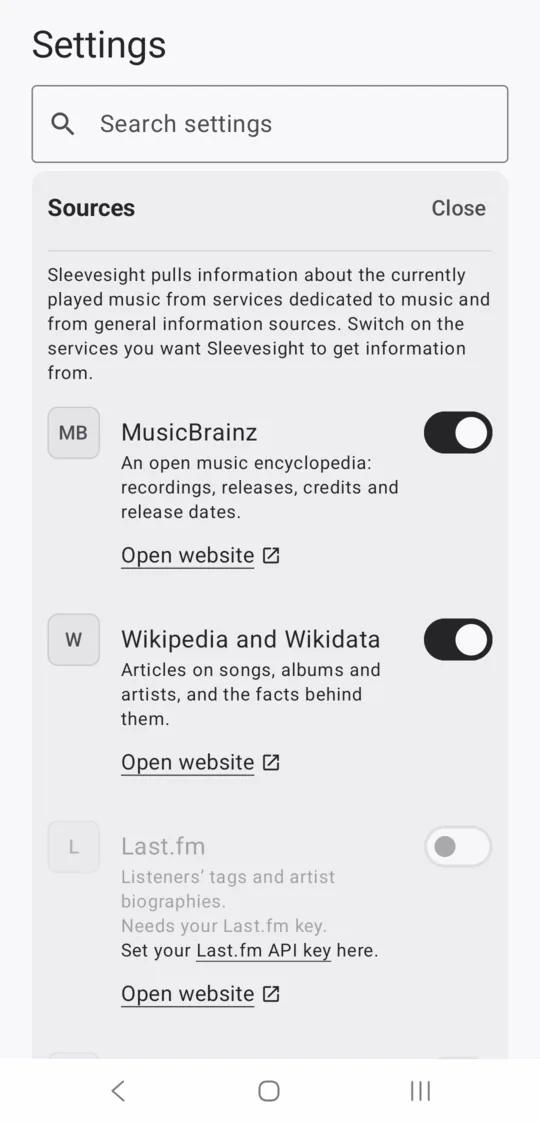
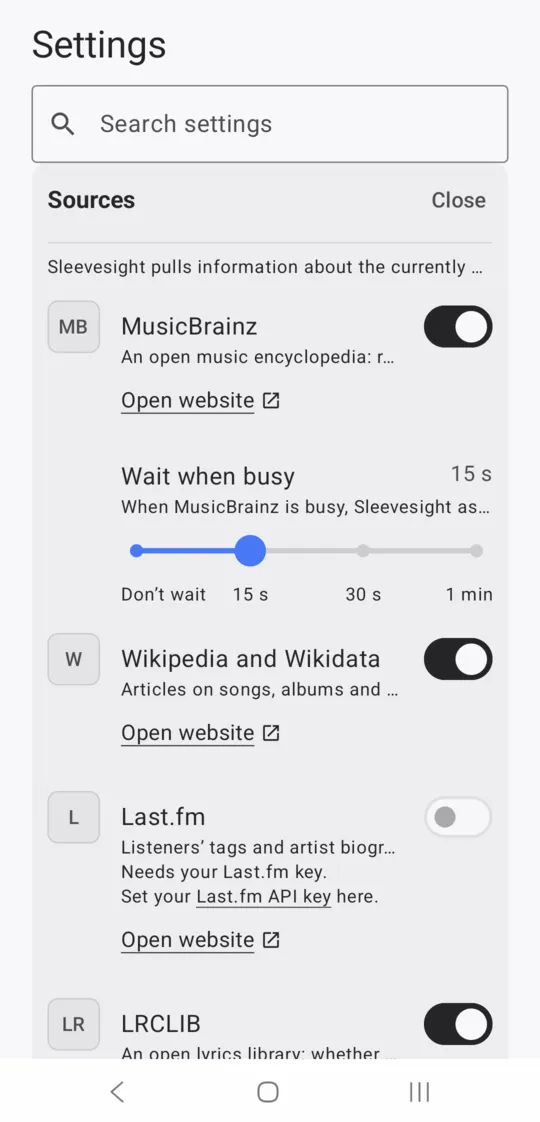
[DOCS] Screenshots: the app as it is in 0.6.6 (#1259)
* [DOCS] Screenshots: the app as it is in 0.6.6

The docs' captures, taken on the phone from 0.6.6, as the docs catch-up to
0.6.6 marked them. Retaken: `first-run-top`, `first-run-access-off`,
`first-run-access-on`, the settings captures at their defaults with the
descriptions folded, `key-insights`, `sources-unfolded`, `sources-page`,
`as-written-previously` and `home-playing`. New, in place of the markers:
`cover-tracklist`, `lyrics-explained`, `genres-weak-instrumental`,
`genre-why-answer`, `insight-dimmed`, `artist-insight`, `sources-legend`,
`insight-resumed` and `settings-appearance-layout`.

`genre-no-definition` is dropped: every genre in the vocabulary now has a
definition, so its 0.1.15 capture (Acoustic without one) is out of date and
cannot be retaken. The vocals check's capture is not taken: the check runs
only for an Instrumental weak by a sign of vocals, which needs a MusicBrainz
data error to show. `_data/screenshots.yml` gives each its caption, alt
text and version, as picked in a simulation.

* [DOCS] Screenshots: review fixes

`genre-why-answer` gets its own row under *What the genre is, and why this
track has it.*, the text it shows, instead of sitting beside the AI's genre
under *A genre only MusicBrainz gives*. Its alt text counts three sentences,
as the capture has, and `settings-ai-services-no-key`'s quotes *Needs your
OpenAI key* and *Needs your Google key* as the screen does. The two
[…]

diff --git a/docs/tutorials/usage/index.md b/docs/tutorials/usage/index.md
@@ -89,7 +89,8 @@ From top to bottom, the screen shows:
 
 - **The player and its state**, such as "Spotify · Playing", or *Paused*, *Stopped*, *Buffering*. A tap opens the player's own screen, or, for a player that names none (as Spotify), the app as its launcher icon opens it; a player that has neither says so.
 - **The cover**, with the playback position under it when the player reports the track's length. Without a cover, a music note stands in. A tap turns the cover over, like a sleeve, to show the album's tracklist on its back, from MusicBrainz: each track's position, title and length, the playing song marked, in the app's own colours; an album of several discs has a page per disc, swiped sideways, with a dot per disc under it. A tap on the back turns it back. The tracklist is looked up on the first turn, not before. With none, the back says why: MusicBrainz is still being asked, is disabled, could not be reached (with *Retry*), *MusicBrainz has no tracklist for this album.*, or *MusicBrainz reports several albums of this name for this artist. Sleevesight could not decide which one this is.* A screen reader reads the cover as *Album art*, "Double-tap to show tracklist", and a track as "3, Blue in Green, 5 minutes 37 seconds, playing".
-  <!-- screenshot (0.6.6) still to take: the cover turned over to the tracklist, the playing song marked; ideally an album of two discs, with its disc heading and dots -->
+
+  {% include screenshots.html ids="cover-tracklist" %}
 - **The title**, large and bold, cleaned of what the player appends: a tag such as "2006 Remaster" is set aside, and featured artists ("feat. Van Morrison") join the artists. When the title names the work it is from or a variant ("From …", "acoustic"), that shows under it.
 - **The artists**, each credited one, featured artists included.
 - **The album**, in italics, followed by the year of that release, the one being played, when it is known: *Rubber Soul*, 1965. The year comes from MusicBrainz, from the release of the name the player gives, or that name without an edition in brackets such as "(Remastered)" or "(Deluxe Edition)" (never without "(Live)" or "(Original Motion Picture Soundtrack)", which name another album); "Vol. 2" and "Volume 2" count as the same name. When several releases go by that name in different years, the year the player sends picks one; without it, or when it is none of theirs, the year of the release the track first came out on, when that is one of them (*Thriller*, 1982, and not a reissue's year), and otherwise no year shows. With no release of that name, the year is the player's own, if it sends one. When the player gives no album, the line reads *Album not reported*.
@@ -97,7 +98,8 @@ From top to bottom, the screen shows:
 - **Lyrics**, a button after *Dates* and *Genres*, for every track while [*Lyrics links*]({{ '/docs/tutorials/settings/' | relative_url }}#appearance) is on, under *Appearance* in the settings. A tap opens it in place into the *Lyrics* panel: a link to the song’s lyrics on each lyrics site MusicBrainz links to, one per site, Genius and Musixmatch first (“Lyrics on Genius”, with “The song’s page, linked from MusicBrainz.” under it); where a site has a page for several artists’ versions of the song, the one for the artist playing. A tap opens the page in your browser; Sleevesight doesn’t fetch or show lyrics. While MusicBrainz is still being asked, the panel says so. With no page to link, it says why, as *Dates* does: MusicBrainz is disabled, could not be reached (with *Retry*), did not find the song, or links to no lyrics page for it, as for most songs. Then, when the track's own web search results (with *Exa web search* on) hold the song's page on a site that exists for lyrics, it links that page, such as “Lyrics on Genius”, with “The song’s page, from the web search for this track.” under it, found at no cost; a store's page, such as Bandcamp's, or an artist's or an album's page is not taken for it. Otherwise it offers “Search Genius for the lyrics”, a search for the title and artist that may find another song of the same name, or, with *Search Genius when there is no link* off, says “Genius search is disabled.”, with a link to *Settings → Appearance*; and under it, **Find the lyrics**, with the *AI* mark, has your AI service search the web for the song's lyrics page, a paid call, as [*Ask AI*](#ask-ai) does (*Searching the web for the lyrics…*; with nothing found, *Claude Haiku 5.5 found no lyrics on the web.*). A track MusicBrainz lists as instrumental gets a line saying so (*MusicBrainz lists this track as instrumental, without lyrics.*), and no search.
 
   After the links, for every track with lyrics, **Explain the song**, with the *AI* mark, asks your AI service what the song is about, a paid call, only on a tap: *Ask AI automatically* never asks it. It is offered only with *Exa web search* and [*AI web search*]({{ '/docs/tutorials/settings/' | relative_url }}#insights) on, since a model's own memory of what a song means is the least reliable kind. It searches the web once for pages about the song (interviews, reviews, annotations; with *Up to 3 times*, the model's own searches), and writes two to four sentences from them and from the track's own pages, such as its Wikipedia article, quoting at most a few words of the lyrics. Each sentence cites the pages it rests on (`S1`, `S2`), a citation opening its page in the browser, and a sentence no page backs is dimmed, as in an insight. Under it, *Pages cited*, each page by its id and its site, a link, then *by Claude Haiku 5.5*. While it runs, *Reading about the song…*, with *Stop*; with nothing usable, *Claude Haiku 5.5 found nothing to explain the song.* It is kept with the track as the other answers are ([Ask AI](#ask-ai)). *Close* folds the panel back into the button; a new track closes it.
-  <!-- screenshot (0.6.6) still to take: Lyrics open, with a lyrics link, Find the lyrics, and Explain the song answered: its cited sentences, Pages cited and the byline -->
+
+  {% include screenshots.html ids="lyrics-explained" %}
 
 A new track shows at once, with its sources and insight to come.
 
@@ -113,9 +115,13 @@ The labels sit behind **Genres**, a button under the album, after *Dates*, for e
 
 **Instrumental.** A track with vocals is not *Instrumental*, whatever its tags say. Lyrics found for the song drop it from every row: MusicBrainz's lyrics links, [LRCLIB]({{ '/docs/tutorials/settings/' | relative_url }}#sources)'s record of its lyrics, or a lyrics page *Find the lyrics* found. Where the signs only weigh against it, it stays, weak, with a line saying why: *MusicBrainz lists lyrics for this song, so it is likely not Instrumental.*, *MusicBrainz lists this song’s lyrics as English, so it is likely not Instrumental.*, *MusicBrainz credits … with vocals on this track, most likely it is not Instrumental.*, *This track also credits … and may feature vocals.*, or, when LRCLIB's mark alone backs it, *Only LRCLIB’s user-submitted records mark this track Instrumental.* With [*AI web search*]({{ '/docs/tutorials/settings/' | relative_url }}#insights) on, a tap on *Why is this instrumental?* first has your AI service check the web for whether the track has vocals (*Checking whether this track has vocals…*), one Exa search and one paid call with *Once*: *Web search found this track described as instrumental.*, which lifts the weak mark; *Web search found vocals on this track, so it is not Instrumental.*, after which no reason is written; or *Web search found nothing on whether this track has vocals.* Each names the page it rests on, as a citation, which joins *Sources* as a web line (*vocals check*). With [*Ask AI automatically*]({{ '/docs/tutorials/settings/' | relative_url }}#insights) on, the check runs by itself. The answer is kept with the track, as an insight is.
 
-<!-- screenshot (0.6.6) still to take: Genres open on a weak Instrumental, with its line on why, and the same after the vocals check, "Web search found this track described as instrumental." with its citation --> The panel's *Close* folds the panel back into the button, the genre with it; with *Dates* open as well, the panel opened later goes above. Each new track starts with the panels closed.
+{% include screenshots.html ids="genres-weak-instrumental" %}
+
+The panel's *Close* folds the panel back into the button, the genre with it; with *Dates* open as well, the panel opened later goes above. Each new track starts with the panels closed.
 
 **What the genre is, and why this track has it.** At the top of the genre, above its tags, the genre explained. First what it is: the first two sentences of the genre's English Wikipedia article, with *From Wikipedia* under them, linking the article, and *CC BY-SA 4.0*, linking its licence. It is the same for every track, so it is looked up once per genre (through the genre's entry in MusicBrainz's list of genres, or the nearest one for a tag that is not in it, such as alternative rock for *alternative*, and its Wikidata item; for a few tags, from an article the app's list of genres names for them, such as *Acoustic music* for *acoustic* or *Film score* for *score*), kept as long as Wikipedia's findings are (*How long each source's findings are kept*), and only while Wikipedia is on under [*Sources*]({{ '/docs/tutorials/settings/' | relative_url }}). Every genre of the track is looked up as soon as its labels are in, so a genre you open usually has its definition already; until it lands, a turning record and *Looking on Wikipedia…* stand in its place. When Wikipedia cannot be reached, it says *Wikipedia could not be reached.*, with *Retry*, which asks again at no cost. A genre with no English article, or with neither a genre in MusicBrainz's list nor an article the app's list of genres names for it, says *No definition from Wikipedia for this genre.* in its place, with [*Ask AI*](#ask-ai) under it, which asks your AI service what the genre is, from the model's own knowledge, a paid call; for a few the article opens with where and when the genre began rather than what it is, which is why the article is linked. For a weakly supported genre, a line under the definition (or what stands in its place) says why, the genre's name in italics: *Few MusicBrainz contributors tagged this track Country, and the artist’s tags don’t include it.*, or *Only Last.fm’s tags for this track give Country, and the album’s tags don’t include it.*, naming the artist's tags, the album's or both, as the track has them. Then **Why is this jazz?** (the genre's name in its place), a button with the small *AI* mark: a tap asks your AI service, one paid call, why this track carries the label, from the track's evidence, the same lines the insight is written from. While it is asked, a turning record and *Looking for an explanation…* take the button's place. The answer replaces the button, under the question, with citations like an insight's: a tap on one shows its line under *Sources*. Under it, *by Claude Haiku 5.5* names the model that wrote it, and the note under that points to any dimmed sentence, as under an insight; an answer written before this play of the track ends with a line saying when (*Kept from before: written today at 13:04.*, as for [*Ask AI*](#ask-ai)). The answer is about the music, never about what the sources leave out, and never says the track is not of the genre or belongs under another: an answer that does counts as no explanation. When the evidence cannot support the genre and [*AI web search*]({{ '/docs/tutorials/settings/' | relative_url }}#insights) is *Once* or *Up to 3 times*, the question is asked again with a web search: with *Once*, one more paid call and one Exa search; with *Up to 3 times*, up to four more calls and three searches ([What it costs you]({{ '/docs/costs/' | relative_url }})). The pages found join the evidence as more web lines, numbered after the track's (`S6`, `S7` after `S1` to `S5`), and are cited as the others. When nothing can explain it, the button stays, greyed out, with *AI could not find an explanation.* under it. A call that fails says *The explanation could not be written:* and why, with *Retry*, another paid call. The answer is kept with the track, like its insight: closing the panel, opening another genre, or playing the track again later shows it again with no new call, until a change in the settings would offer *Rewrite insight* for the insight (another AI service, model or effort, or new evidence), when the button is offered again. It is kept for as long as *Keep history for* says, and *Clear history* deletes it. The button is not offered with *Show insights* off. With no AI service set up, it is greyed out, with *Enable an AI service in Settings → AI services.* under it, the last words a link there. Under a written answer, at the end of the row of its credit, a speaker button, *Read aloud*, reads the question, then the answer, as the insight's does ([The insight](#the-insight)).
+
+{% include screenshots.html ids="genre-why-answer" %}
 
 **A genre only MusicBrainz gives.** MusicBrainz's tags are never sent to an AI service, because of their licence. So for a genre that only MusicBrainz's tags give, *Why is this …?* first asks your AI service which genres the track is, naming no genre at all: from web pages while *AI web search* is on (one Exa search and one paid call with *Once*, up to three searches and four calls with *Up to 3 times*), which comes first when both are on, or else from the model's own knowledge while [*AI service knowledge*]({{ '/docs/tutorials/settings/' | relative_url }}#sources) is on, one paid call. When its list has the genre, the explanation is asked for as above, with its own calls; when it does not, nothing more is asked, the button is greyed out, and under it the panel says *The AI service doesn’t list Blues among this song’s genres. Only MusicBrainz does, and Sleevesight could not use that annotation. See why.*, *See why.* opening this page's [Genre labels](#genre-labels) in your browser. The tap is remembered for the rest of the track's play. When neither can be used, the button is greyed out from the start, with *No AI service enabled.* under it and *Enable AI service knowledge or AI web search.* under that, each name a link to its setting. The genres on the list that are not among the chips join the chips, after the others, each with the small *AI* mark, and the *Track* row of *Genre tags*, while that row has room (five labels at most): a genre left out of the row gets no chip either; the model joins that row's *Tag sources* (*Last.fm · MusicBrainz · Claude Haiku 5.5 AI*), and with *AI web search* the pages the genres were found on show under the chips, each as *From discogs.com*, a link to the page. A screen reader reads such a genre as "Blues, from Claude Haiku 5.5". It opens as any other genre, and a tap on its *Why is this …?* asks for the explanation straight away. The list is kept with the track as an answer is, so another genre's tap, or a later play, asks for no list again.
 
@@ -145,8 +151,7 @@ The answer shows under a rule, apart from what the sources gave, with the model'
 
 When nothing in the answer is usable, the panel says *Claude Haiku 5.5 found nothing on the web.*, or *Claude Haiku 5.5 couldn't say from its own knowledge.*, after *Asked automatically:* when the question was asked by itself. When the call fails, it says *Asking AI failed:* and why, with *Retry*, which asks again, another paid call.
 
-<!-- screenshot (0.6.6) to retake: genre-no-definition, on a genre with no definition other than Acoustic, which has one since 0.1.17 (#852) -->
-{% include screenshots.html ids="genres-ask-ai genre-no-definition dates-ask-ai-web genres-ask-ai-nothing" %}
+{% include screenshots.html ids="genres-ask-ai dates-ask-ai-web genres-ask-ai-nothing" %}
 
 An answer is kept with the track (a genre's definition with the genre, for every track that has it), as a genre's *Why is this …?* answer is: closing the panel or playing the track again later shows it with no new call, with *Ask AI automatically* off too, until you choose another AI service, model or effort, or turn the web search on or off. It is kept, with the addresses of the pages it came from, for as long as *Keep history for* says, and *Clear history* deletes it. It never goes into the insight, the genre labels or *Sources*. With no AI service set up, the button is greyed out, and a screen reader adds *No AI service is enabled.* It is not offered with *Show insights* off, for an instrumental's lyrics, for lyrics the track's web search already found, or while the panel is still looking.
 
@@ -156,10 +161,7 @@ With [*Ask AI automatically*]({{ '/docs/tutorials/settings/' | relative_url }}#i
 
 *Key insights* holds the insight: a few sentences written by the AI service you chose, from what the sources found. Under the heading, *by Claude Haiku 5.5* names the model that wrote it, as *AI services* lists it: from its first words while it is written, and kept with it, so an insight kept from before names the model that wrote it then, not the one chosen now. No model is named while the sources are gathered, after a failure or a stop, or when the sources give nothing to write from. The insight is plain text with citation chips in it. The AI service is asked not to format it; when it does anyway, a title it marks is set in italics, bold shows as bold, and its other formatting marks are left out.
 
-{% include screenshots.html ids="key-insights" %}
-
-<!-- screenshot (0.6.6) to retake: key-insights, Key insights with Read aloud, the split button (Write insight greyed out once written), then the Song, Artist and Album buttons (each with the AI mark) and their names, closed, before the Sources chip -->
-<!-- screenshot still to take: the insight with a dimmed sentence and the note naming it ("Dimmed text is not backed by the sources.") -->
+{% include screenshots.html ids="key-insights insight-dimmed" %}
 
 - **Citation chips.** Each sentence cites the evidence lines it rests on, by their ids, such as `MB1` or `W3`. A tap on a chip opens the *Sources* panel, unfolds its list as far as that line, scrolls to it and flashes it. A screen reader reads each chip by what it points at ("Source W3"), and offers the lines as actions of the paragraph.
 - **The model's own knowledge.** When [*AI service knowledge*]({{ '/docs/tutorials/settings/' | relative_url }}) is on, a claim from it is cited `AI`, in a colour of its own, and a screen reader calls it "From the AI model's own knowledge, not verified". It is off by default.
@@ -189,7 +191,7 @@ Under the insight, before *Sources*, three rows: **Song**, **Artist** and **Albu
 
 The key insight also draws on what the song, the artist and the album were found to have, once they are found.
 
-<!-- screenshot (0.6.6) still to take: the Song, Artist and Album buttons with their names, closed, and the Artist panel open with its insight written -->
+{% include screenshots.html ids="artist-insight" %}
 
 **Open and closed.** A tap on a button opens its item in a panel in the row's place, titled *Song*, *Artist* or *Album*, with the name under it, whole, and, for a song whose title named a version, a line such as *Version: 2024 Remaster*; *Read aloud* once the insight is written, and *Close* at the top right, which folds it back into its row. Several can be open at once. Each new track starts them closed, by default: [*Song, Artist and Album on a new track*]({{ '/docs/tutorials/settings/' | relative_url }}#appearance) can start them open, or as you left them on the track before. A screen reader reads a row as one button: "Song, Paper Boats, uses AI. Button. Double-tap to show the song's insight". With [*Layout*]({{ '/docs/tutorials/settings/' | relative_url }}#appearance) set to *Pages*, a button opens its insight on a page of its own instead ([Pages](#pages)).
 
@@ -214,8 +216,6 @@ An insight already written shows again with no call: when its panel is closed an
 
 {% include screenshots.html ids="sources-unfolded" %}
 
-<!-- screenshot (0.6.6) to retake: sources-unfolded, the legend under the table now one line, ? and Explain the source chips, in place of Shown, Hidden and No results -->
-
 **Folded and unfolded.** *Sources* starts folded: only its chip shows, **Sources**, which looks like the *Dates* and *Genres* buttons. A tap on it opens the *Sources* panel in its place, which looks like theirs: *Sources* at the top, and **Close** at the top right, which folds it back to the chip. With a keyboard or a screen reader, the focus moves to *Close* when the panel opens and back to the chip when it closes. A screen reader reads the chip as a heading and a button, *Sources*, collapsed.
 
 **The table of the sources.** In the panel, a table with a row for each source that is on, and for one you switched off whose lines the insight kept from before still cites. On the left, right-aligned, a chip with the letter the source's lines and citations use, so a citation can be matched to its source: `MB` *MusicBrainz*, `W` *Wikipedia* (it covers Wikidata's `WD` lines too), `L` *Last.fm*, `S` *Web search*, `P` *Player* (the release the player reports, the album as a line of evidence), and `AI` *AI service knowledge*, when the model's own knowledge is on. On the right, the source's name, and under it what it found: what its lines are about, as a list, such as *Found the track, the original song and the artist* or *Found the artist* (for web search, *Found pages about the track*); *Gave the release* (the player), *Nothing found*, *Not confirmed without MusicBrainz* (a match only MusicBrainz could tie to the track, while it could not be reached), *Looking…* (it has not answered yet), *Could not be reached*, *Failed*, or *Allowed in Settings* (the model's own knowledge). A track looked up in its own language has rows of their own for it, such as *Wikipedia in Hindi* and *Web search in Hindi*, and their lines are marked *in Hindi*, translated in the insight. The rows sit close together, each at least a finger's height.
@@ -229,7 +229,9 @@ The chip shows at a glance what a tap does, and a tap anywhere on its row, the c
 
 That only changes what you see: what the AI service may use is set under [*Sources*]({{ '/docs/tutorials/settings/' | relative_url }}). Under the table, a small **?** and *Explain the source chips* open the legend in that line's place: *Source chips*, then a sample of each look with its meaning, *Verified, cited in the insight*, *Unverified, not cited in the insight*, *Hidden, tap to show* and *No results from this source*, and *Tap a source to show or hide its results.* A tap on *Source chips* closes it again; it starts closed each time *Sources* opens.
 
-<!-- screenshot (0.6.6) still to take: Sources with the legend open (Source chips, the four samples and their meanings), and a source in grey with (unverified) --> A screen reader reads a row that shows or hides lines as one switch, its source's name and what it found, and whether its lines are shown or hidden (*unverified results shown* for a grey one); a dimmed chip's row is read as text, the source's name and what it found.
+{% include screenshots.html ids="sources-legend" %}
+
+A screen reader reads a row that shows or hides lines as one switch, its source's name and what it found, and whether its lines are shown or hidden (*unverified results shown* for a grey one); a dimmed chip's row is read as text, the source's name and what it found.
 
 **The note.** Under the table, a note only when something needs you or went wrong, a sentence for each source: *Last.fm needs your key, in Settings.*, when its saved key can no longer be read (a tap on *Settings* opens them; the key goes under *Secrets*), *Web search could not be reached.* (those not reached named together, *Last.fm and MusicBrainz could not be reached.*, with *Retry* beside the note, which asks them again with no call to your AI service, web search being one Exa search, paid on your key), or *MusicBrainz failed.* A source that found nothing, whose match was rejected, or that is switched off says nothing; a source with no key saved is switched off.
 
@@ -261,8 +263,6 @@ With *Layout* set to *Pages*, a tap on the **Sources** chip opens *Sources* on a
 [*Layout*]({{ '/docs/tutorials/settings/' | relative_url }}#appearance), under *Appearance* in the settings, sets how the parts of the home screen open. *Boxes*, the default, is the home screen as described above: everything a track has is on one screen, and each part unfolds in place, as an expandable box.
 
 {% include screenshots.html ids="sources-page" %}
-
-<!-- screenshot (0.6.6) to retake: sources-page, as sources-unfolded, the legend now the ? line -->
 
 With *Pages*, the home screen is shorter, and each part opens a page of its own, on the app's background like the home screen, its accents in the album art's colours, with a back arrow and the part's name at the top:
 
@@ -341,7 +341,7 @@ Automatic writing starts with your first action:
 - **After the app starts afresh**, nothing is written automatically until you act in it, in every mode: choose a mode (in the menu or under *Reactive*, the current one included), or tap *Write insight* or *Rewrite insight*. A track that played before that offers *Write insight*. That first action lasts as long as the app's process, which the notification listener usually keeps alive after you leave the app, often for days: coming back to the app, from the player, the launcher or the screen turned on again, keeps it, and writing goes on. A restart of the phone, an update of the app, or the system ending the process (on some phones, a swipe from Recents) starts afresh.
 - **The pause.** So that one action does not keep paying for days, automatic writing pauses once the app has not been on screen for more track changes than [*Saver*]({{ '/docs/tutorials/settings/' | relative_url }}) names (5 by default). Opening the app resumes it, and the count starts again. A track that played while it was paused is not written on its own, the one playing when you come back included: it offers *Write insight*, with the line above.
 
-<!-- screenshot still to take: Key insights with the automatic-writing-resumed line and Write insight -->
+{% include screenshots.html ids="insight-resumed" %}
 
 ### While the app is not on screen
 

diff --git a/docs/journey/index.md b/docs/journey/index.md
@@ -48,8 +48,6 @@ At the bottom, a link opens the privacy policy in your browser.
 
 {% include screenshots.html ids="first-run-top" %}
 
-<!-- screenshot (0.6.6) to retake if it shows the line: first-run-top, the first line under What leaves the phone now lists the sources (LRCLIB among them), the track's length to LRCLIB, and Exa's searches -->
-
 ## 2. Notification access
 
 **Why.** A player reports what it is playing in a *media session*, and Android lists other apps' media sessions only to an app with notification access. Sleevesight reads the media sessions of the players you follow, not your notifications. The access cannot be limited to one app, so Android's screen for it warns that the app could read all your notifications.
@@ -84,8 +82,6 @@ To save several keys at once, *Load keys*, under *Secrets*, reads one QR code of
 
 {% include screenshots.html ids="settings-ai-services-no-key" %}
 
-<!-- screenshot (0.6.6) to retake: settings-ai-services-no-key, AI services with no key saved, the descriptions folded to one line, down to Retry when the AI fails (dimmed, no AI service on) -->
-
 ## 4. Choosing the sources
 
 **The sources.** The sources are what the AI may use, under *Sources* in the settings, each with a link to its website:
@@ -100,8 +96,6 @@ To save several keys at once, *Load keys*, under *Secrets*, reads one QR code of
 **What you decide.** Which sources to use, and whether to add keys for Last.fm and Exa. Each source you switch on receives the playing track's title and artists (Last.fm the artists, and for the genre labels also the title and the album, Wikidata only identifiers, LRCLIB also the album and the track's length, and Exa also the film or show a title says it is from); while the album's insight is open, Wikipedia and Last.fm also get the album's name, and MusicBrainz and Wikidata its identifiers. A source switched off receives nothing. Under *Genres* you choose whose tags give the genre labels, or, with *Show genres* off, none at all. With *Proactive* on, as it is by default, under *Insights*, the next track in the player's queue is also looked up at MusicBrainz ahead of its play; off sends nothing about it. The [privacy policy]({{ '/privacy.html' | relative_url }}) lists what goes to each.
 
 {% include screenshots.html ids="settings-sources-defaults settings-sources-ai-knowledge" %}
-
-<!-- screenshot (0.6.6) to retake: settings-sources-defaults (MusicBrainz with Wait when busy at 15 s, Wikipedia and Wikidata, Last.fm off needing its key) and settings-sources-ai-knowledge (LRCLIB on, Exa web search off needing its key, Search in the track's language at If needed, AI service knowledge dimmed with its line on no AI service), the descriptions folded, no AI service set up -->
 
 ## 5. Playing music
 
@@ -123,8 +117,6 @@ To save several keys at once, *Load keys*, under *Secrets*, reads one QR code of
 
 {% include screenshots.html ids="home-playing key-insights sources-unfolded" %}
 
-<!-- screenshot (0.6.6) to retake: key-insights, with the Song, Artist and Album buttons (AI mark) under the insight; sources-unfolded, with the ? line Explain the source chips under the table -->
-
 ## 6. Write, automatic writing, and the history
 
 **Write insight.** Each time the app starts afresh, nothing is written automatically until you act in it: a tap on *Write insight*, which writes the track playing, or a writing mode chosen in the menu beside it (the current one included), which writes nothing by itself. Until then *Key insights* says *Tap Write insight to have it written from the sources below.* That first action is what lets automatic writing go on. Android usually keeps the app's process alive after you leave it, often for days, so coming back keeps it going; a restart of the phone, an update, or the system ending the app asks for it again.
@@ -145,8 +137,6 @@ To save several keys at once, *Load keys*, under *Secrets*, reads one QR code of
 
 {% include screenshots.html ids="write-insight-waiting as-written-previously settings-insights settings-insights-saver" %}
 
-<!-- screenshot (0.6.6) to retake: as-written-previously, the line now "As written previously. Tap Rewrite insight to have AI rewrite the insight with …" (after a model change, or Look again finding something new); settings-insights (Show insights, Proactive, Look up in the background, Reactive as Demand / Skip / Change buttons) and settings-insights-saver (Saver with its 3 / 5 / 10 buttons), the descriptions folded, no check marks -->
-
 ## 7. Changing settings later, and clearing what is kept
 
 **Settings.** Every choice above can be changed later, and each change is saved at once. [Settings]({{ '/docs/tutorials/settings/' | relative_url }}) describes each one, with its default and what changing it sends or keeps; among those not met above are *Theme* (light, dark or as the phone is, which the theme button on the home screen sets too) and *Theme button*, *Layout* (the sources, the genres and the song's, the artist's and the album's insights in place on the home screen, or each on a page of its own), *Sources on a new track* and *Song, Artist and Album on a new track*, *Font*, *Foldable descriptions*, *Logo intro at start*, *Spin the logo while music plays* and *Restore dismissed messages*, under *Appearance*; how long each source's findings are kept, under *History*; *AI web search*, *Ask AI automatically* and the rows under *Read aloud*, under *Insights*; *Retry when the AI fails*, under *AI services*; and *Only enabled players on Home*, under *Players*.
@@ -161,5 +151,3 @@ To save several keys at once, *Load keys*, under *Secrets*, reads one QR code of
 What a service keeps of the requests it received, such as the AI service for your account, is between you and that service; the [privacy policy]({{ '/privacy.html' | relative_url }}) says more.
 
 {% include screenshots.html ids="settings-history clear-history-dialog" %}
-
-<!-- screenshot (0.6.6) to retake: settings-history, History with the descriptions folded: Keep history for 90 days, Clear history, Look up the track again (Automatically), New session idle trigger 30 minutes -->

diff --git a/docs/tutorials/settings/index.md b/docs/tutorials/settings/index.md
@@ -208,8 +208,6 @@ If a saved key can no longer be read, as after the phone's Keystore is reset, it
 
 {% include screenshots.html ids="settings-ai-web-search" %}
 
-<!-- screenshot (0.6.6) to retake: settings-ai-web-search, Insights scrolled to AI web search set to Once, with its line under the buttons (no check mark on Once), and Ask AI automatically switched on, the descriptions folded (Foldable descriptions on, the default) -->
-
 Then reading aloud, under a heading of its own, ***Read aloud***, drawn as a setting's name, with its description: *The speaker button beside insights triggers your phone’s text-to-speech engine to read the text aloud. The engine is the one chosen in Android’s settings. Note: some, such as Google’s network voices, send the text to their server to be spoken.* The voice is the phone's own built-in text-to-speech voice, so it sounds only as good as the phone's voice: not a natural or studio voice. The button is on the home screen at the end of the *Key insights* heading, once an insight is written, and under a genre's reason in its panel (see [Using Sleevesight]({{ '/docs/tutorials/usage/#the-insight' | relative_url }})). It makes no AI call, so none of these rows calls one, and each can be changed whether *Show insights* is on or off. Android's engine is the phone's choice (*Settings*, *Accessibility*, *Text-to-speech output* on most phones): an engine that speaks on the phone sends nothing, while one with network voices, such as Google's when set to use them, sends the insight's text to its server to be spoken, under its own policy ([privacy policy]({{ '/privacy.html#what-leaves-the-phone-and-to-whom' | relative_url }})).
 
 - ***Music while reading aloud*** (**default: *Lower***; or *Pause*; buttons in the row). *When an insight is read aloud while music is playing, the app can temporarily lower the volume or pause the playback.* Under the buttons, what the chosen one does: *Lower*: *The music plays on, quieter, while the insight is read.*; *Pause*: *The music pauses while the insight is read, and plays on after it. A player that does not resume by itself stays paused.* Both go through Android's audio focus, which the player follows: lowering is done for the player by Android, and pausing by the player itself, which plays on once the reading gives the sound back. Music a player you follow plays on another device, such as a speaker through Spotify Connect, is beyond the audio focus, so it is held through the player as well: *Lower* sets the speaker's volume down to 30% of its volume and back after, unless you changed it meanwhile, and *Pause* pauses it. Where the phone cannot set the speaker's volume, as with Spotify Connect, *Lower* pauses it too, and a note under *Key insights* says *The speaker’s volume cannot be set from the phone, so the music is paused while the insight is read.* Lowering is the default, so a tap never interrupts the music where its volume can be set.
@@ -241,7 +239,7 @@ Old entries go by the phone's clock. Each time Sleevesight starts, with the phon
 
 *App customisation.* In its panel: *Sleevesight appearance options.*
 
-<!-- screenshot (0.6.6) still to take: Appearance from Layout down, its descriptions folded: Layout, Sources on a new track, Song, Artist and Album on a new track (both dimmed only with Layout at Pages; take it at Boxes), Foldable descriptions, Descriptions on return, the chosen buttons with no check mark -->
+{% include screenshots.html ids="settings-appearance-layout" %}
 
 - ***Theme*** (**default: *System***; or *Light*, *Dark*; buttons in the row). *Light or dark. The system's follows your phone's dark theme.* *Light* and *Dark* keep the app so whatever the phone's dark theme is; the colours taken from the album art on the home screen, and the status and navigation bars, follow the choice too. The change shows at once. From Android 12 the splash screen as the app opens follows it as well; on earlier versions the splash screen follows the phone, and the app's own screen is as chosen from its first frame. The theme button on the home screen sets this same setting, and the buttons here show what it chose.
 - ***Theme button*** (**default: on**). *Shows a button beside Settings on Home that opens a menu of the light, dark and system themes.* The button shows the current theme: a sun while *Theme* is *Light*, a moon while it is *Dark*, the automatic brightness symbol while it is *System*. A tap opens a menu of the three, the current one highlighted, and picking one sets *Theme*. On by default, as two taps are quicker than opening the settings; switched off, the header holds only the cogwheel. The [usage page]({{ '/docs/tutorials/usage/' | relative_url }}#the-header) shows the button.

diff --git a/docs/tester/alpha/index.md b/docs/tester/alpha/index.md
@@ -84,8 +84,6 @@ So that you need not pay for testing, we can give you an Anthropic key of your o
 
   {% include screenshots.html ids="key-insights" %}
 
-  <!-- screenshot (0.6.6) to retake: key-insights, with the Song, Artist and Album buttons under the insight -->
-
 - **Diagnostics.** The test build starts in developer mode, so Settings shows a *Developer* section, last. If it is not there (its *Developer mode* switch hides it), open *About* and tap *Version* seven times to bring it back. Under *Developer*, turn on *Diagnostics*, then *Open diagnostics*: what the app did since it started (each source's outcome and time, AI calls, the citation check), the track changes recorded, and what skip detection has learned. *Export* writes it to a file where you choose, which may be a cloud folder; nothing of it leaves the phone otherwise. *Report button*, *Auto* in the test build, shows the report button on the home screen (*What to tell us*, below).
 
   {% include screenshots.html ids="diagnostics-events" %}
